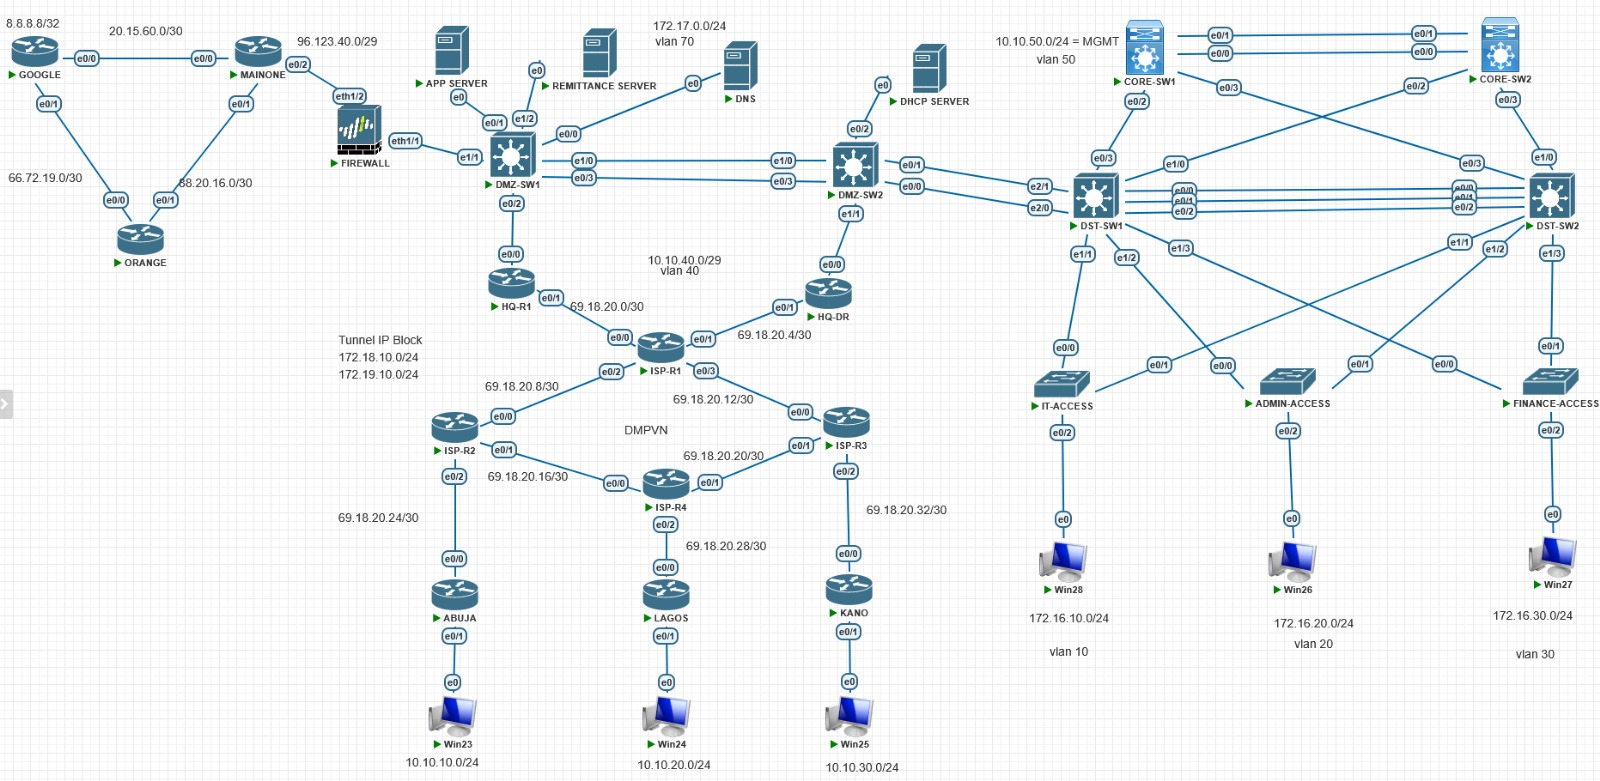
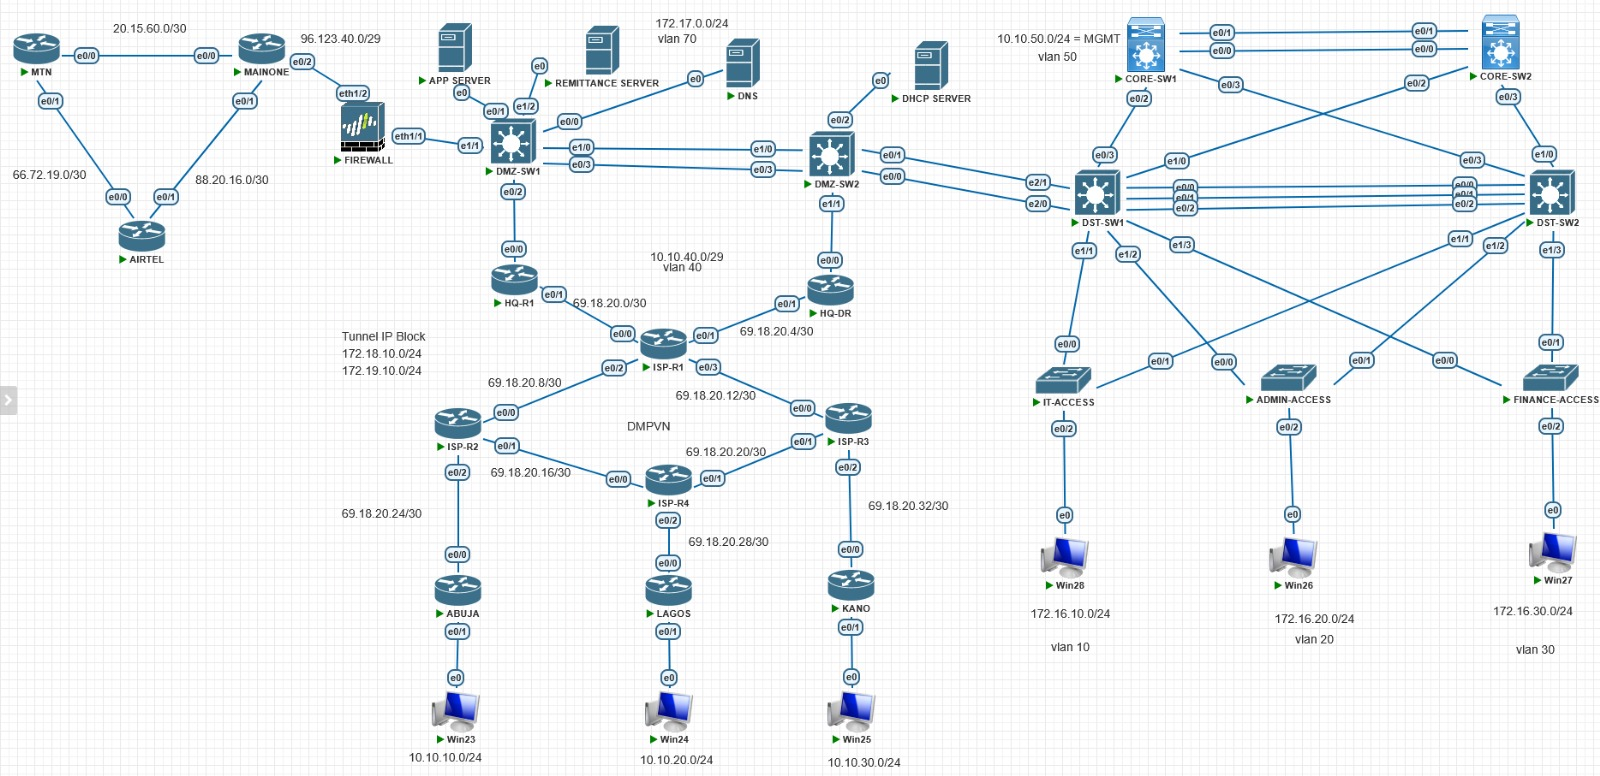
files updates

diff --git a/README.md b/README.md
@@ -10,7 +10,7 @@ The Dynamic Multipoint Virtual Private Network, or DMVPN, is a scalable, secure,
 •	IPsec encryption – ensuring secure data transfer over the public internet.
 In this project the DMVPN technology was configured and used to connect the remote branches of a company to the headquarters data center.
 
-The Border Gateway Protocol (BGP) is the main protocol used to share information about how to route data between different groups of networks, called autonomous systems (AS), on the Internet. It is different from other types of routing protocols because it is built to work across the entire Internet. BGP helps Internet Service Providers (ISPs) handle their routing rules, manage how traffic flows, and connect to other networks smoothly. This project looks into how BGP is designed, set up, and used in an ISP setting. In this project , BGP was configured between three Internet Service Providers namely Google, Vodafone and Orange. 
+The Border Gateway Protocol (BGP) is the main protocol used to share information about how to route data between different groups of networks, called autonomous systems (AS), on the Internet. It is different from other types of routing protocols because it is built to work across the entire Internet. BGP helps Internet Service Providers (ISPs) handle their routing rules, manage how traffic flows, and connect to other networks smoothly. This project looks into how BGP is designed, set up, and used in an ISP setting. In this project , BGP was configured between three Internet Service Providers namely MAINONE, MTN and AIRTEL for accessing internet service, however the control on those routers belonging to the trio were not given to us . BGP was also configured in ISP1, ISP2, ISP3 and ISP4 which stand for different Internet Service Providers they provide connectivities so DMVPN could be configured at the diffferent locations of the Cyberspace offices and the same technology is used to connect and give services to different clients and we have full controls on them.
 
 This readme file contains the entire automated configurations of the DMVPN and the Enterprise networks in the diagram.  
 ![Topology](./Topology.png)
